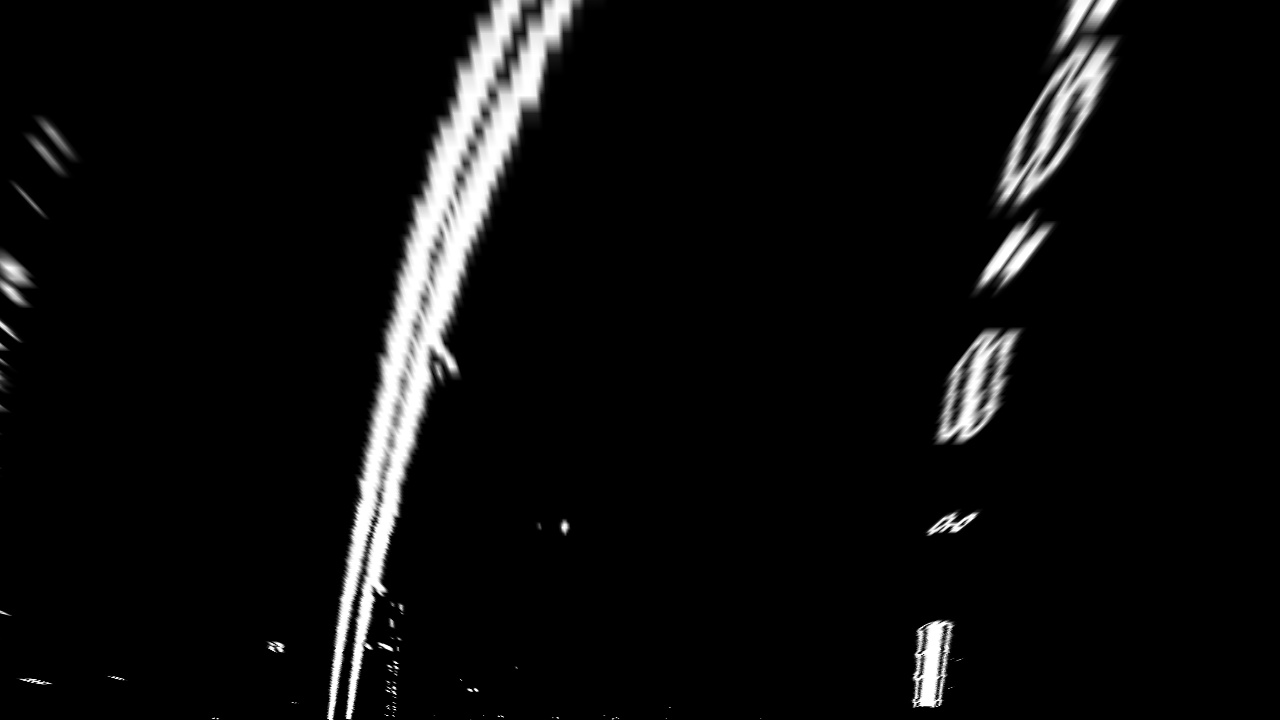
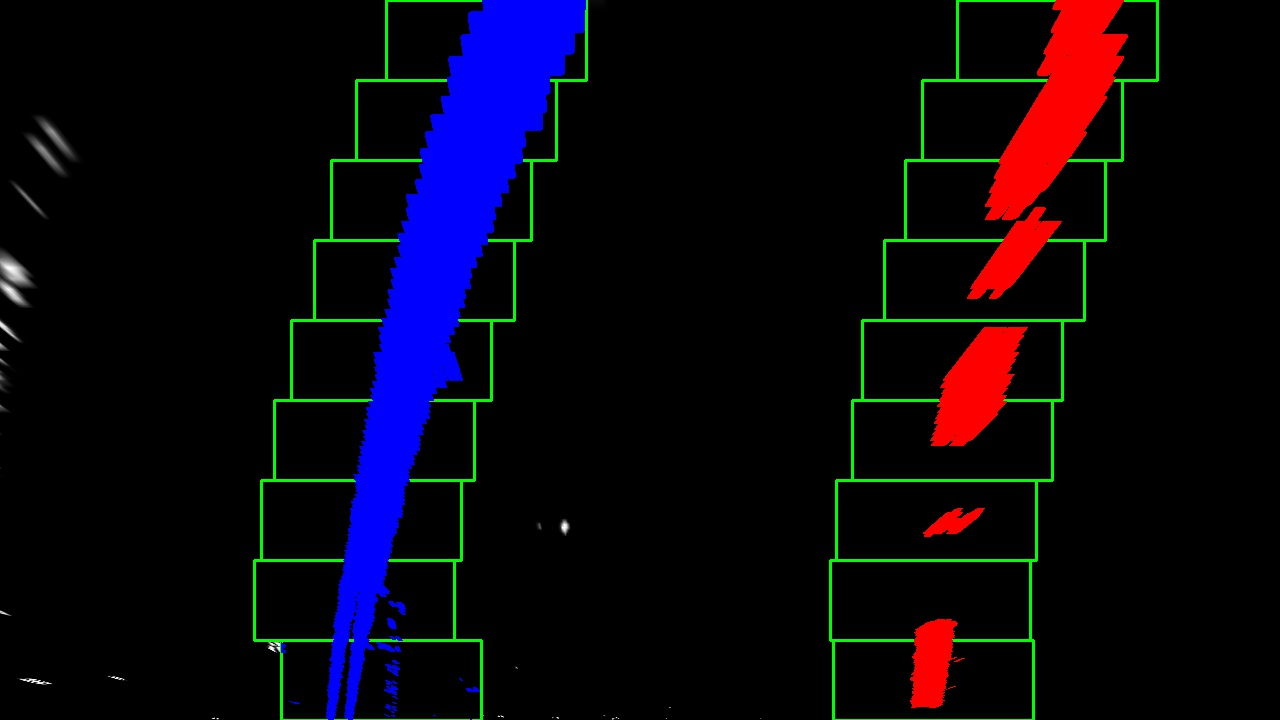
sliding window

Changed region(s): [[0.1875, 0.0, 0.4688, 1.0], [0.625, 0.0, 0.9062, 1.0]]

diff --git a/src/line_curve.py b/src/line_curve.py
@@ -9,6 +9,118 @@ from color_gradient_thrsh import threshold_pipeline
 from calibration import calculateCameraPoints,calcMtxDist,lines_unwarp
 
 
+def find_lane_pixels(binary_warped):
+    # Take a histogram of the bottom half of the image
+    histogram = np.sum(binary_warped[binary_warped.shape[0]//2:,:], axis=0)
+    # Create an output image to draw on and visualize the result
+    out_img = np.dstack((binary_warped, binary_warped, binary_warped))
+    # Find the peak of the left and right halves of the histogram
+    # These will be the starting point for the left and right lines
+    midpoint = np.int(histogram.shape[0]//2)
+    leftx_base = np.argmax(histogram[:midpoint])
+    rightx_base = np.argmax(histogram[midpoint:]) + midpoint
+
+    # HYPERPARAMETERS
+    # Choose the number of sliding windows
+    nwindows = 9
+    # Set the width of the windows +/- margin
+    margin = 100
+    # Set minimum number of pixels found to recenter window
+    minpix = 50
+
+    # Set height of windows - based on nwindows above and image shape
+    window_height = np.int(binary_warped.shape[0]//nwindows)
+    # Identify the x and y positions of all nonzero pixels in the image
+    nonzero = binary_warped.nonzero()
+    nonzeroy = np.array(nonzero[0])
+    nonzerox = np.array(nonzero[1])
+    # Current positions to be updated later for each window in nwindows
+    leftx_current = leftx_base
+    rightx_current = rightx_base
+
+    # Create empty lists to receive left and right lane pixel indices
+    left_lane_inds = []
+    right_lane_inds = []
+
+    # Step through the windows one by one
+    for window in range(nwindows):
+        # Identify window boundaries in x and y (and right and left)
+        win_y_low = binary_warped.shape[0] - (window+1)*window_height
+        win_y_high = binary_warped.shape[0] - window*window_height
+        win_xleft_low = leftx_current - margin
+        win_xleft_high = leftx_current + margin
+        win_xright_low = rightx_current - margin
+        win_xright_high = rightx_current + margin
+        
+        # Draw the windows on the visualization image
+        cv2.rectangle(out_img,(win_xleft_low,win_y_low),
+        (win_xleft_high,win_y_high),(0,255,0), 2) 
+        cv2.rectangle(out_img,(win_xright_low,win_y_low),
+        (win_xright_high,win_y_high),(0,255,0), 2) 
+        
+        # Identify the nonzero pixels in x and y within the window #
+        good_left_inds = ((nonzeroy >= win_y_low) & (nonzeroy < win_y_high) & 
+        (nonzerox >= win_xleft_low) &  (nonzerox < win_xleft_high)).nonzero()[0]
+        good_right_inds = ((nonzeroy >= win_y_low) & (nonzeroy < win_y_high) & 
+        (nonzerox >= win_xright_low) &  (nonzerox < win_xright_high)).nonzero()[0]
+        
+        # Append these indices to the lists
+        left_lane_inds.append(good_left_inds)
+        right_lane_inds.append(good_right_inds)
+        
+        # If you found > minpix pixels, recenter next window on their mean position
+        if len(good_left_inds) > minpix:
+            leftx_current = np.int(np.mean(nonzerox[good_left_inds]))
+        if len(good_right_inds) > minpix:        
+            rightx_current = np.int(np.mean(nonzerox[good_right_inds]))
+
+    # Concatenate the arrays of indices (previously was a list of lists of pixels)
+    try:
+        left_lane_inds = np.concatenate(left_lane_inds)
+        right_lane_inds = np.concatenate(right_lane_inds)
+    except ValueError:
+        # Avoids an error if the above is not implemented fully
+        pass
+
+    # Extract left and right line pixel positions
+    leftx = nonzerox[left_lane_inds]
+    lefty = nonzeroy[left_lane_inds] 
+    rightx = nonzerox[right_lane_inds]
+    righty = nonzeroy[right_lane_inds]
+
+    return leftx, lefty, rightx, righty, out_img
+
+
+def fit_polynomial(binary_warped):
+    # Find our lane pixels first
+    leftx, lefty, rightx, righty, out_img = find_lane_pixels(binary_warped)
+
+    # Fit a second order polynomial to each using `np.polyfit`
+    left_fit = np.polyfit(lefty, leftx, 2)
+    right_fit = np.polyfit(righty, rightx, 2)
+
+    # Generate x and y values for plotting
+    ploty = np.linspace(0, binary_warped.shape[0]-1, binary_warped.shape[0] )
+    try:
+        left_fitx = left_fit[0]*ploty**2 + left_fit[1]*ploty + left_fit[2]
+        right_fitx = right_fit[0]*ploty**2 + right_fit[1]*ploty + right_fit[2]
+    except TypeError:
+        # Avoids an error if `left` and `right_fit` are still none or incorrect
+        print('The function failed to fit a line!')
+        left_fitx = 1*ploty**2 + 1*ploty
+        right_fitx = 1*ploty**2 + 1*ploty
+
+    ## Visualization ##
+    # Colors in the left and right lane regions
+    out_img[lefty, leftx] = [255, 0, 0]
+    out_img[righty, rightx] = [0, 0, 255]
+
+    # Plots the left and right polynomials on the lane lines
+    plt.plot(left_fitx, ploty, color='yellow')
+    plt.plot(right_fitx, ploty, color='yellow')
+
+    return out_img
+
 def threshAndTransform():
     # Read calubration images:
     images = glob.glob('../camera_cal/calibration*.jpg')
@@ -31,8 +143,8 @@ def threshAndTransform():
         #  cv2.waitKey(0)
         img_thrsh = threshold_pipeline(img)
         unwarped, _ = lines_unwarp(img_thrsh, mtx, dist)
-        if unwarped is not None:
-            plainName = imgName.split("/")[2]
-            cv2.imwrite('../output_images/pipeline/'+plainName, unwarped)
+        out_img = fit_polynomial(unwarped[:, :, 0])
+        plainName = imgName.split("/")[2]
+        cv2.imwrite('../output_images/pipeline/'+plainName, out_img)
 
 threshAndTransform()
